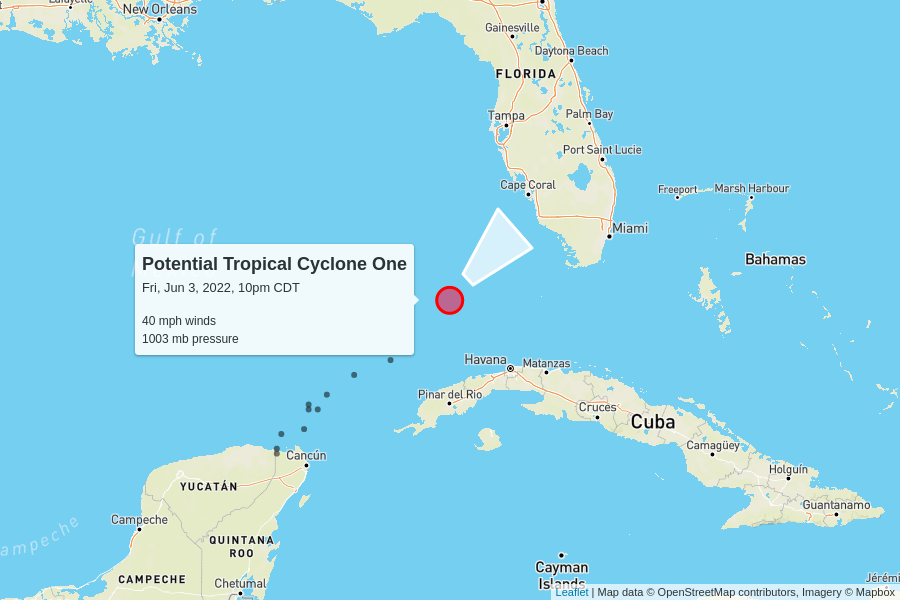
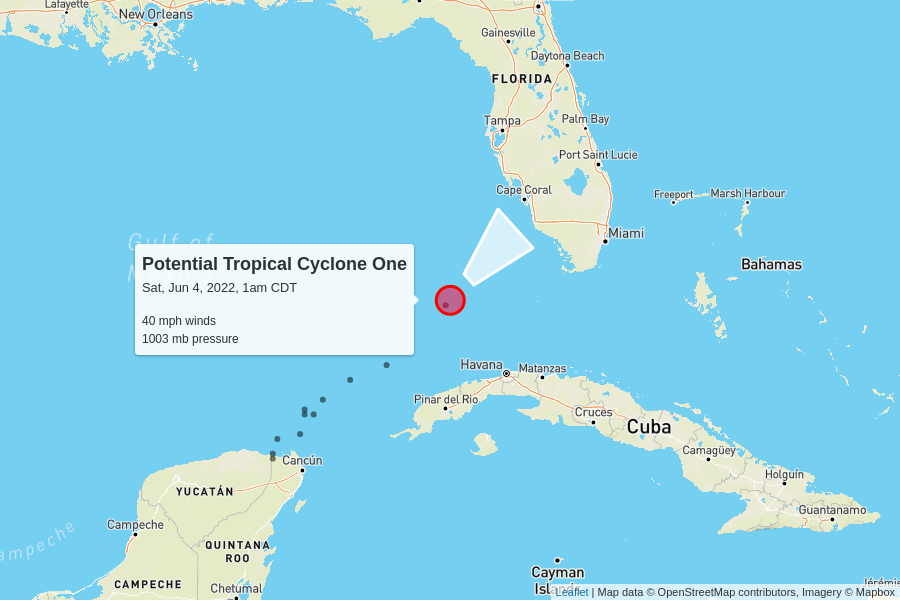
automatic update

diff --git a/docs/index.html b/docs/index.html
@@ -100,7 +100,7 @@
         <td colspan="6" class="storm category-0" >
           <h2>
             Potential Tropical Cyclone One
-            <p class="updated">last updated <span data-time>2022-06-04T03:00:00.000Z</span></p>
+            <p class="updated">last updated <span data-time>2022-06-04T06:00:00.000Z</span></p>
           </h2>
         </td>
       </tr>
